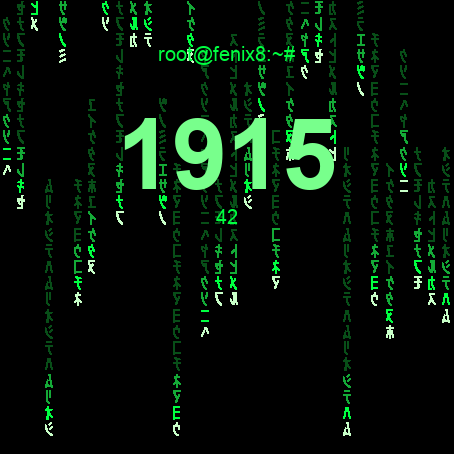
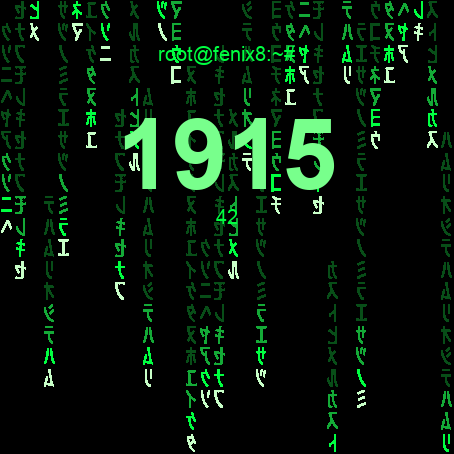
Calm v4 fall speed and enlarge the rain glyphs.
Speed is back near v3. The bitmap font was never shrunk after
the first v4; extra cell padding made it look smaller. Glyphs
are now 13x20 and the grid is sized to match.

diff --git a/tools/gen_rain_font.py b/tools/gen_rain_font.py
@@ -19,8 +19,8 @@ FONT_PATH = "/System/Library/Fonts/\u30d2\u30e9\u30ae\u30ce\u89d2\u30b4\u30b7\u3
 ASCII = "abcdefghijklmnopqrstuvwxyz0123456789*+$:=#"
 KANA = "ｱｲｳｴｵｶｷｸｹｺｻｼｽｾｿﾀﾁﾂﾃﾄﾅﾆﾇﾈﾉﾊﾋﾌﾍﾎﾏﾐﾑﾒﾓﾔﾕﾖﾗﾘﾙﾚﾛﾜﾝ"
 
-CELL_W = 10
-CELL_H = 16
+CELL_W = 13
+CELL_H = 20
 PAD = 1
 ATLAS_W = 256
 
@@ -29,7 +29,7 @@ def load_face(size):
     return ImageFont.truetype(FONT_PATH, size, index=0)
 
 
-def render_kana(ch, face, src_size=64):
+def render_kana(ch, face, src_size=80):
     canvas = Image.new("L", (src_size, src_size), 0)
     draw = ImageDraw.Draw(canvas)
     draw.text((src_size // 8, 0), ch, font=face, fill=255)
@@ -38,7 +38,7 @@ def render_kana(ch, face, src_size=64):
         return Image.new("L", (CELL_W - 2, CELL_H - 2), 0)
     glyph = canvas.crop(bbox)
     glyph = ImageOps.mirror(glyph)
-    # Keep thin gothic strokes alive at 8-10px.
+    # Light thicken so strokes survive downsample, not a 1-bit smear.
     glyph = glyph.filter(ImageFilter.MaxFilter(3))
     gw, gh = glyph.size
     scale = min(float(CELL_W - 2) / gw, float(CELL_H - 2) / gh)
@@ -130,7 +130,7 @@ def preview(glyphs, path):
     im.save(path)
 
 
-def rain_sheet(glyphs, path, size=454, cols=32, rows=28):
+def rain_sheet(glyphs, path, size=454, cols=32, rows=21):
     """Rough high-power face preview so we can judge density."""
     by_ch = {ch: g for ch, g in glyphs}
     im = Image.new("RGB", (size, size), (0, 0, 0))
@@ -186,7 +186,7 @@ def main():
     assert len(ASCII) <= len(KANA), (len(ASCII), len(KANA))
     if not os.path.exists(FONT_PATH):
         raise SystemExit("missing Hiragino at %s" % FONT_PATH)
-    face = load_face(56)
+    face = load_face(72)
     glyphs = []
     for i, ch in enumerate(ASCII):
         glyphs.append((ch, render_kana(KANA[i], face)))
